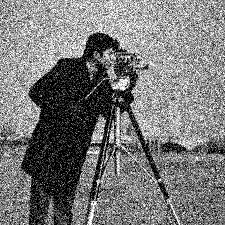
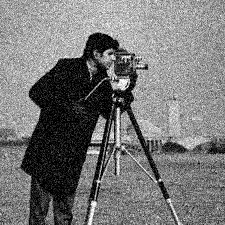
blur test

diff --git a/Machine_vision/image_manipulation.py b/Machine_vision/image_manipulation.py
@@ -18,16 +18,21 @@ cv.imwrite('img_dif.png', img_dif)
 
 #=============Add and filter noise============
 #The larger, the more extreme the noise
-sigma = 50;
+sigma_noise = 25;
 
 #Create the noise
-noise = np.random.normal(0, sigma, img_1.shape)
+noise = np.random.normal(0, sigma_noise, img_1.shape)
 
 #Add the noise in
 img_1_noise = img_1 + noise;
 
-#Clip to 255 and convert the type to 
+#Clip to 255
 img_1_noise.clip(0, 255, out=img_1_noise);
 
 #Save the noisy image
 cv.imwrite('img_noise.png', img_1_noise)
+
+sigma_filter = 1;
+kernal_size = 11;
+img_1_smoothed = cv.GaussianBlur(img_1_noise, (kernal_size, kernal_size), sigma_filter);
+cv.imwrite('img_smooth.png', img_1_smoothed)
